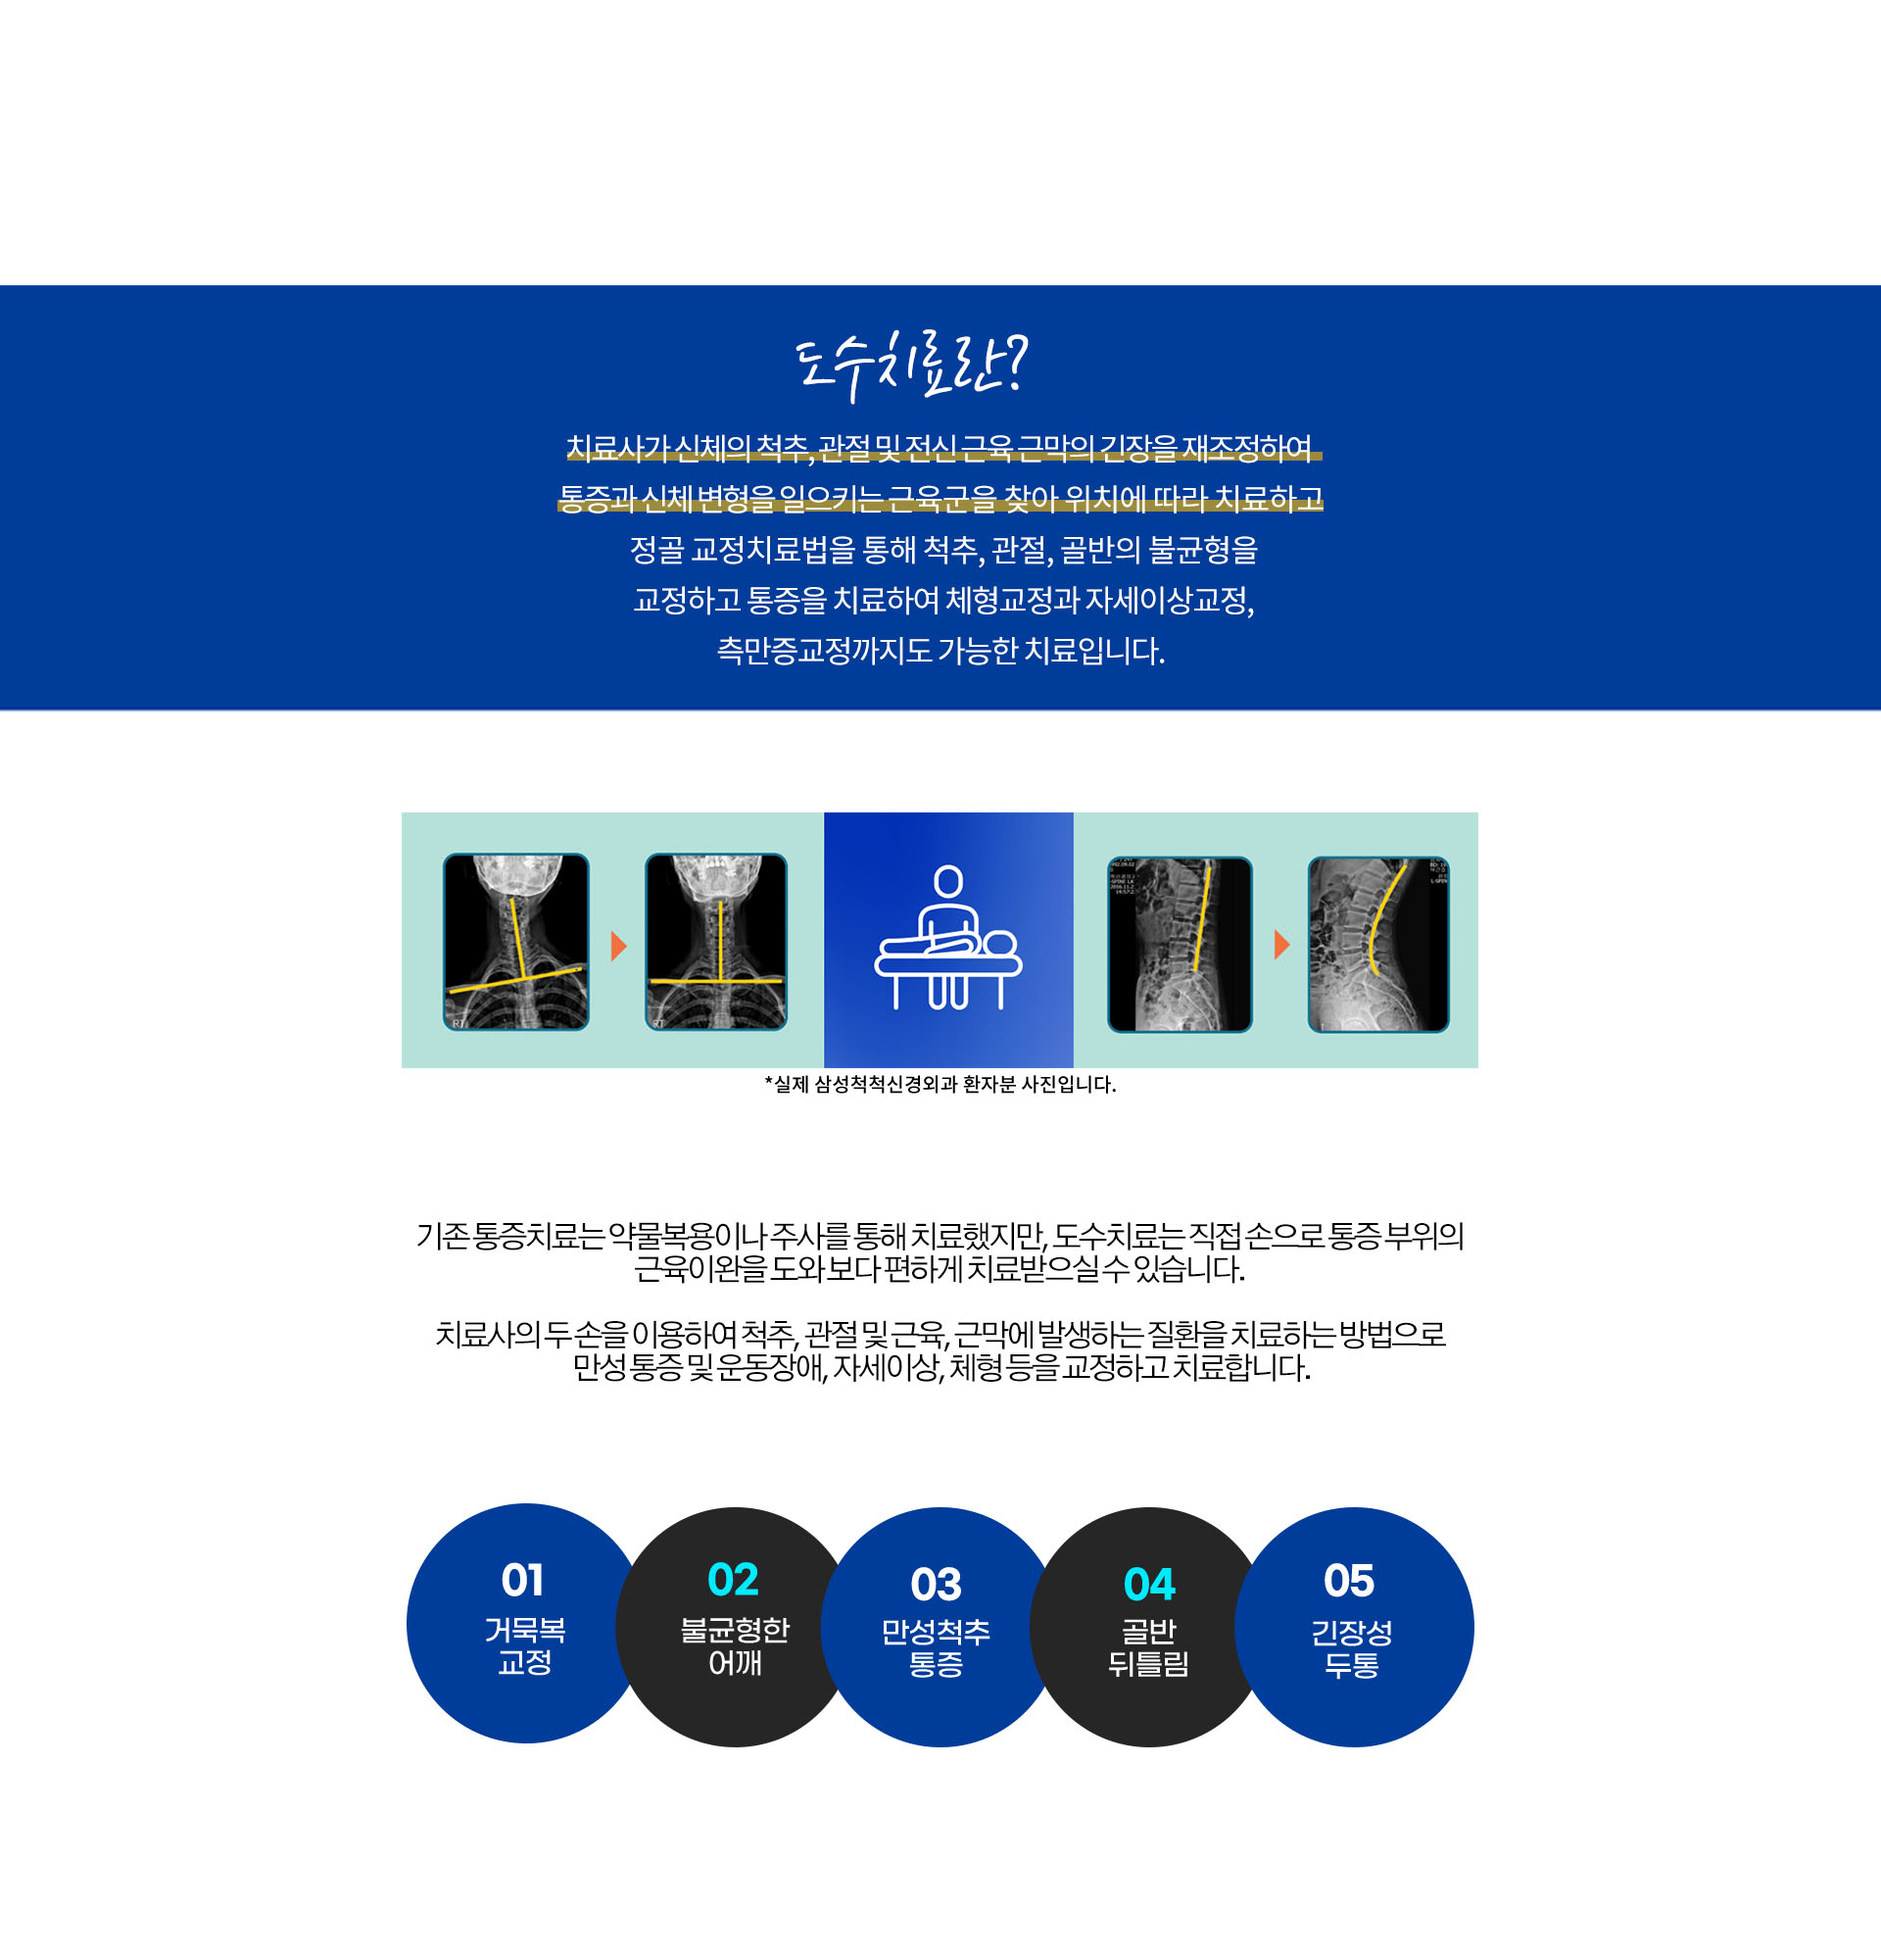
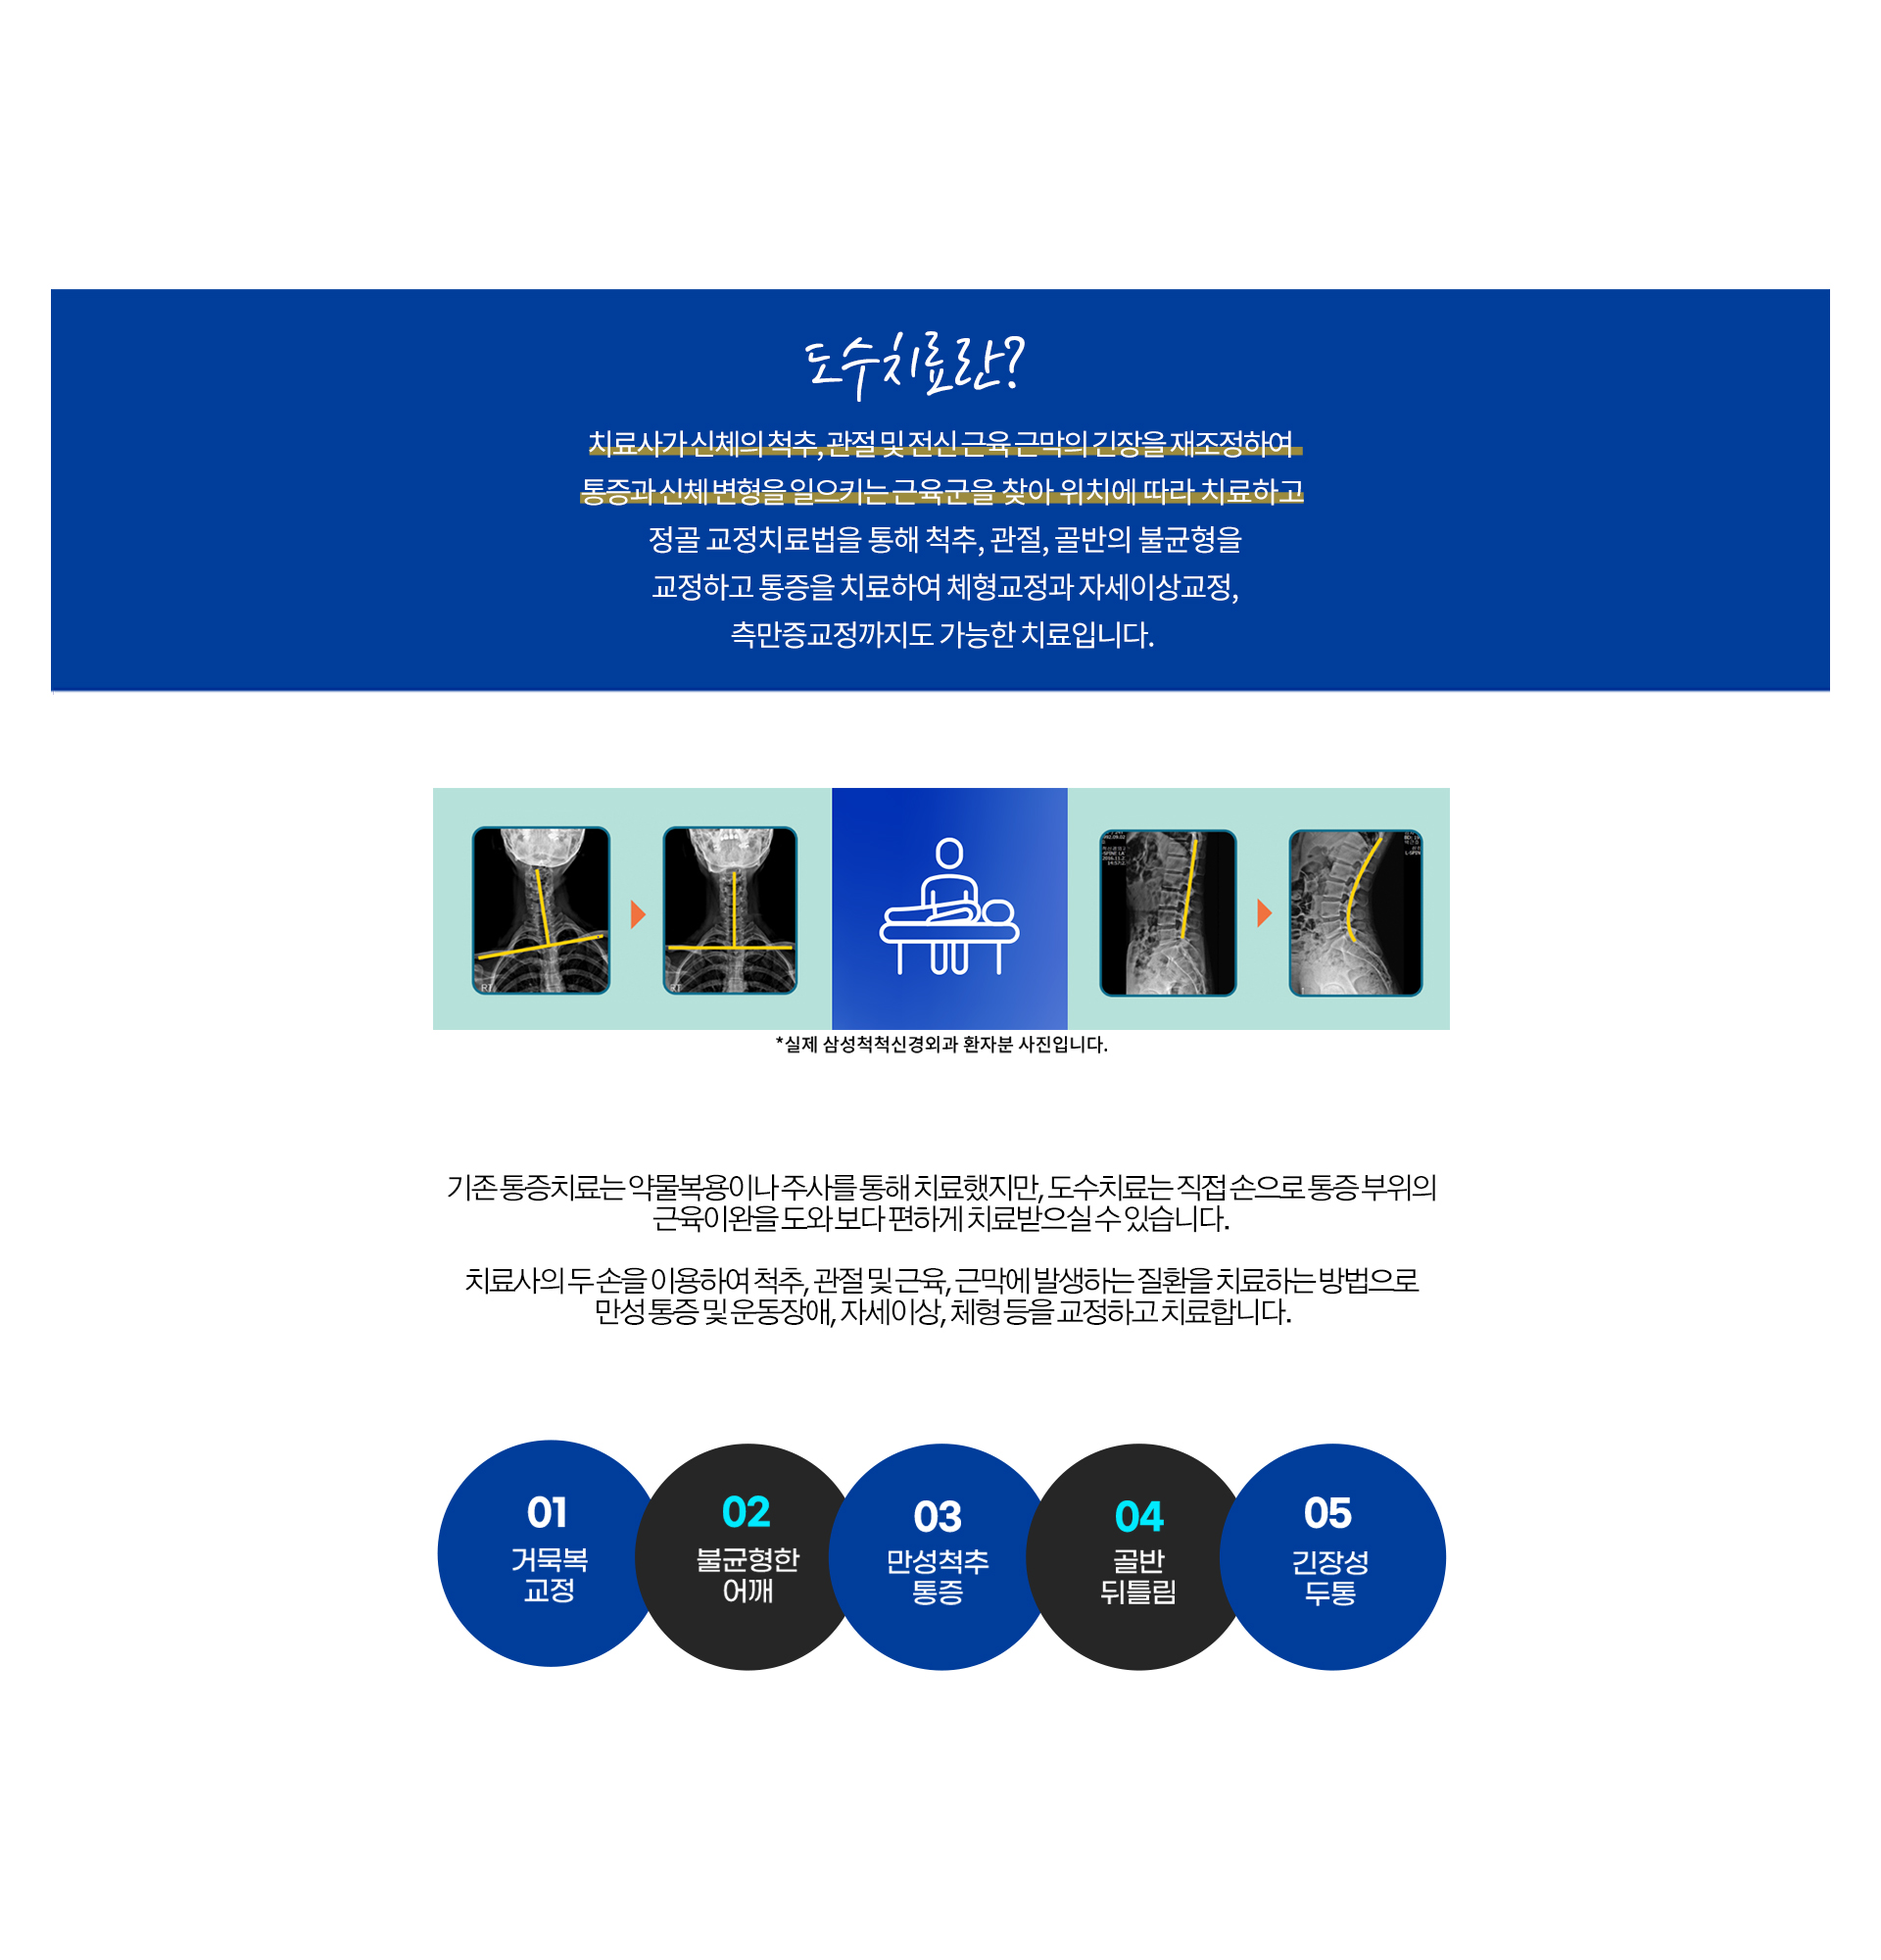
Add files via upload

diff --git a/css/style.css b/css/style.css
@@ -52,7 +52,7 @@ header {
     height: 90px;
     /* outline: 2px solid #ededed; */
     background: #003d9b;
-    box-shadow: 5px 5Px 20px rgba(128, 128, 128, 0.568);
+    box-shadow: 5px 5Px 20px rgba(51, 51, 51, 0.568);
     width: 100%;
     position: relative;
     display: flex;
@@ -78,7 +78,7 @@ header img {
 
 #main_visual {
     width: 100%;
-    height: 1020px;
+    height: 800px;
     overflow: hidden;
     display: flex;
     justify-content: center;
@@ -104,6 +104,7 @@ header img {
 
 
 #main_visual .mainText {
+    width: 100%;
     position: absolute;
     display: block; 
     left: 50%;
@@ -190,22 +191,24 @@ header img {
     text-align: center;
     display: block;
     /* border-top: 7px solid #000; */
-    color: #fff;
+    background: #fff;
+    padding-top: 140px;
     position: relative;
-    background-image: url(../images/dosu.jpg);
-    height: 2400px;
-    background-repeat: no-repeat;
-    width: 100%;
-    background-size: cover;
-    background-position: center;
+    
+    
 }
 
 
 #dosu .text {
-    position: relative;
-    display: block;
-    margin: auto;
-    top: 100px;
+    z-index: 999;
+    position: absolute;
+    display: flex;
+    justify-content: center;
+    justify-items: center;
+    width: 100%;
+    flex-direction: column;
+    top: 150px;
+
 }
 
 #dosu .text h1 {
@@ -224,6 +227,12 @@ header img {
     font-size: 24px;
     margin-top: -10px;
     margin-bottom: 20px;
+}
+
+#dosu img {
+    width: 100%;
+    display: block;
+    position: relative;
 }
 
 

diff --git a/index.html b/index.html
@@ -132,11 +132,11 @@
     </section>
 
     <section id="dosu">
+        <img style="vertical-align:top;" src="./images/dosu.jpg" alt="">
             <div class="container text">
                 <h1>도수치료</h1>
                 <h5>삼성척척신경외과의 도수치료에 대해 알아보세요.</h5>
             </div>
-        <!-- <img src="./images/dosu.jpg" alt=""> -->
     </section>
 
     <section id="interior">
